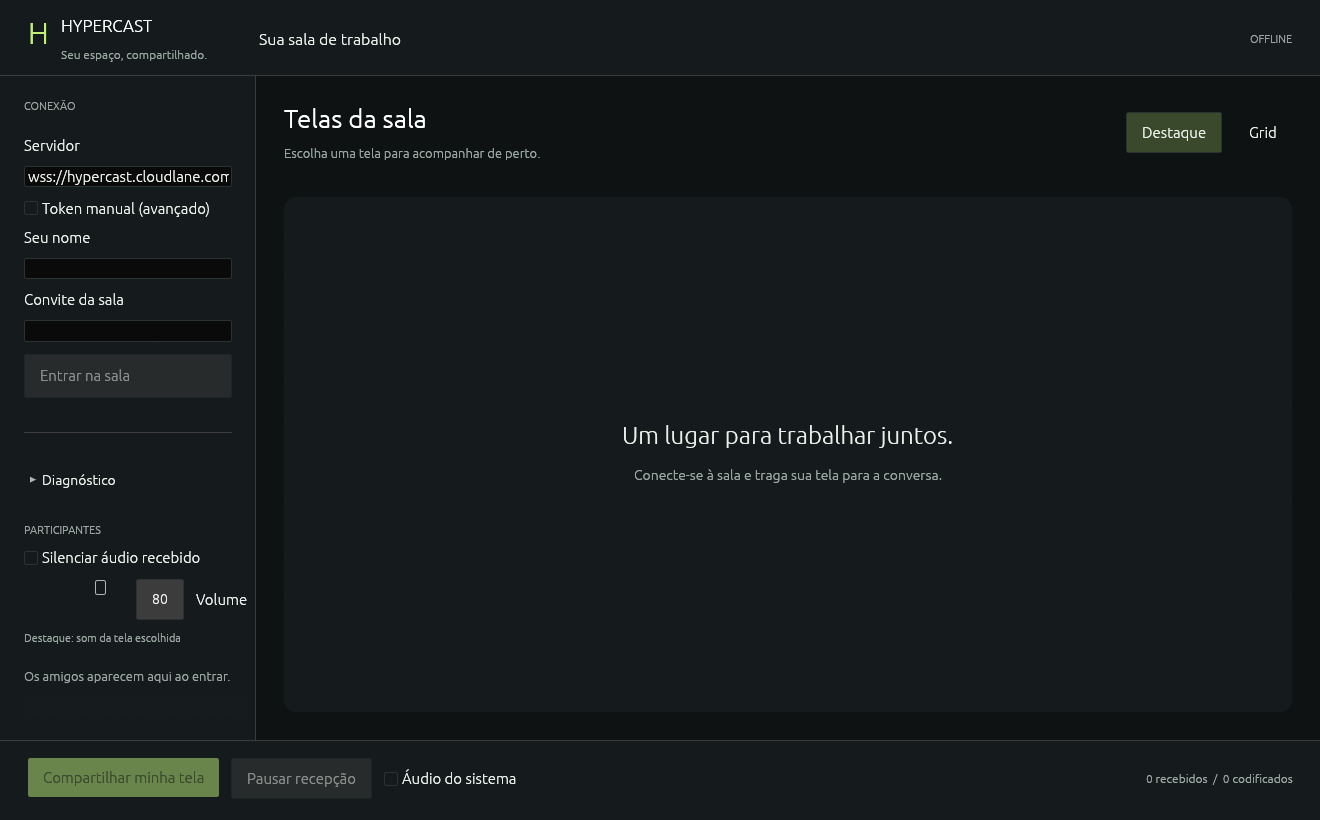
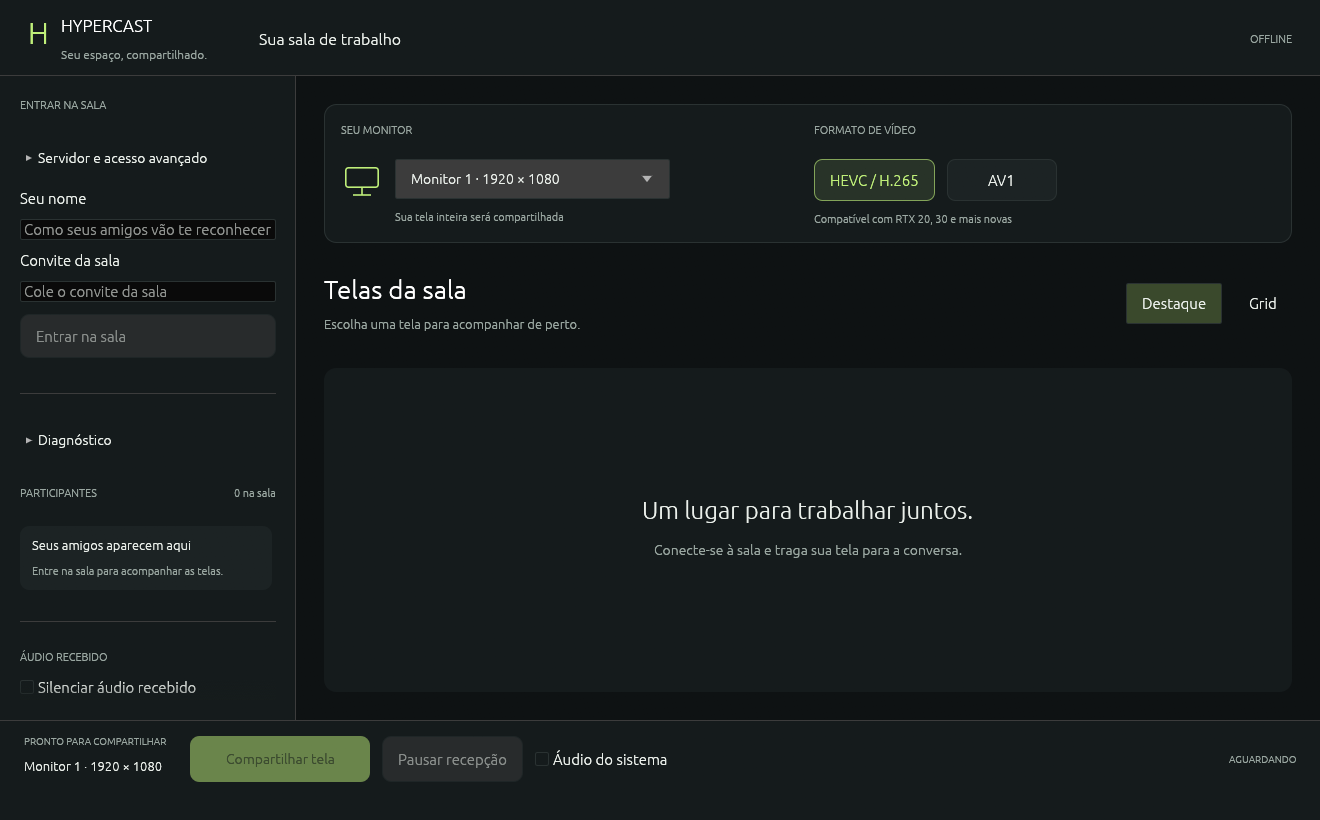
feat: refresh desktop participant cards and sharing controls in 0.3.1

diff --git a/src/desktop.rs b/src/desktop.rs
@@ -17,6 +17,46 @@ const BORDER: Color32 = Color32::from_rgb(42, 50, 50);
 const TEXT: Color32 = Color32::from_rgb(234, 239, 234);
 const MUTED: Color32 = Color32::from_rgb(154, 167, 161);
 const ACCENT: Color32 = Color32::from_rgb(191, 239, 121);
+const SURFACE: Color32 = Color32::from_rgb(28, 35, 36);
+const DANGER: Color32 = Color32::from_rgb(235, 127, 119);
+
+fn monitor_symbol(painter: &egui::Painter, center: egui::Pos2, color: Color32, size: f32) {
+    let stroke = egui::Stroke::new(1.6, color);
+    let screen = egui::Rect::from_center_size(center - Vec2::new(0.0, size * 0.08), Vec2::new(size, size * 0.62));
+    painter.rect_stroke(screen, 3.0, stroke, egui::StrokeKind::Inside);
+    painter.line_segment([center + Vec2::new(0.0, size * 0.24), center + Vec2::new(0.0, size * 0.43)], stroke);
+    painter.line_segment([center + Vec2::new(-size * 0.25, size * 0.43), center + Vec2::new(size * 0.25, size * 0.43)], stroke);
+}
+
+/// Native button keeps keyboard focus/activation and accessibility semantics;
+/// painter supplies the visual hierarchy without image assets or CPU capture.
+fn choice_card(ui: &mut egui::Ui, title: &str, subtitle: &str, selected: bool, enabled: bool, avatar: Option<char>) -> egui::Response {
+    let response = ui.add_enabled(enabled, egui::Button::new("")
+        .min_size(Vec2::new(ui.available_width(), 66.0)).corner_radius(9)
+        .fill(if selected { Color32::from_rgb(40, 51, 40) } else { SURFACE })
+        .stroke(egui::Stroke::new(1.0, if selected { ACCENT.gamma_multiply(0.65) } else { BORDER })));
+    response.widget_info(|| egui::WidgetInfo::labeled(egui::WidgetType::Button, enabled, format!("{title}: {subtitle}")));
+    let center = response.rect.left_center() + Vec2::new(30.0, 0.0);
+    let tint = if selected { ACCENT } else { MUTED };
+    if let Some(initial) = avatar {
+        ui.painter().circle_filled(center, 18.0, tint.gamma_multiply(0.14));
+        ui.painter().text(center, egui::Align2::CENTER_CENTER, initial.to_uppercase().collect::<String>(), egui::FontId::proportional(17.0), tint);
+    } else { monitor_symbol(ui.painter(), center, tint, 27.0); }
+    let painter = ui.painter().with_clip_rect(response.rect.shrink(8.0));
+    painter.text(response.rect.left_top() + Vec2::new(60.0, 15.0), egui::Align2::LEFT_TOP,
+        title, egui::FontId::proportional(14.0), TEXT);
+    painter.text(response.rect.left_top() + Vec2::new(60.0, 37.0), egui::Align2::LEFT_TOP,
+        subtitle, egui::FontId::proportional(11.0), if selected { ACCENT } else { MUTED });
+    if response.has_focus() { painter.rect_stroke(response.rect.shrink(2.0), 8.0, egui::Stroke::new(1.5, ACCENT), egui::StrokeKind::Inside); }
+    response.on_hover_text(format!("{title}\n{subtitle}"))
+}
+
+fn section_title(ui: &mut egui::Ui, label: &str, detail: &str) {
+    ui.horizontal(|ui| {
+        ui.label(RichText::new(label).size(11.0).strong().color(MUTED));
+        ui.with_layout(egui::Layout::right_to_left(egui::Align::Center), |ui| { ui.label(RichText::new(detail).size(11.0).color(MUTED)); });
+    });
+}
 
 struct App {
     engine: Option<Engine>,
@@ -320,39 +360,53 @@ impl eframe::App for App {
                     });
                 });
             });
-        egui::Panel::bottom("controls").exact_size(80.0).frame(egui::Frame::new().fill(PANEL).inner_margin(egui::Margin::symmetric(28,18))).show(ui, |ui| {
+        egui::Panel::bottom("controls").exact_size(100.0).frame(egui::Frame::new().fill(PANEL).inner_margin(egui::Margin::symmetric(24,16))).show(ui, |ui| {
             ui.horizontal(|ui| {
-                if ui.add_enabled(connected && can_publish, egui::Button::new(RichText::new(if publishing { "Parar compartilhamento" } else { "Compartilhar minha tela" }).color(if publishing { TEXT } else { BG })).fill(if publishing { Color32::from_rgb(92,43,42) } else { ACCENT }).stroke(egui::Stroke::NONE)).on_hover_text(if can_publish { "Enviar o monitor escolhido para os amigos" } else { "Seu token permite assistir. Use um acesso de publicador para compartilhar." }).clicked() {
+                ui.vertical(|ui| {
+                    ui.label(RichText::new(if publishing { "SUA TELA ESTÁ AO VIVO" } else { "PRONTO PARA COMPARTILHAR" }).size(10.0).strong().color(if publishing { ACCENT } else { MUTED }));
+                    let monitor = self.displays.get(self.selected_display);
+                    ui.label(RichText::new(monitor.map_or("Nenhum monitor".into(), |d| format!("Monitor {} · {} × {}", self.selected_display + 1, d.width, d.height))).size(13.0).color(TEXT));
+                });
+                ui.add_space(12.0);
+                if ui.add_enabled(connected && can_publish && !self.displays.is_empty(), egui::Button::new(RichText::new(if publishing { "Parar de compartilhar" } else { "Compartilhar tela" }).size(14.0).strong().color(if publishing { DANGER } else { BG })).min_size(Vec2::new(180.0, 46.0)).corner_radius(9).fill(if publishing { Color32::from_rgb(59,34,34) } else { ACCENT }).stroke(egui::Stroke::new(1.0, if publishing { DANGER.gamma_multiply(0.4) } else { ACCENT }))).on_hover_text(if can_publish { "Enviar o monitor escolhido para os amigos" } else { "Seu acesso permite assistir. Um convite de publicador permite compartilhar." }).clicked() {
                     if let Some(engine) = &self.engine {
                         if publishing { let _ = engine.commands.send(Command::StopShare); }
                         else if let Some(display) = self.displays.get(self.selected_display) { let _ = engine.commands.send(Command::Share { adapter: display.adapter_index, output: display.output_index, codec: self.codec }); }
                     }
                 }
-                if ui.add_enabled(connected, egui::Button::new(if self.paused { "Retomar telas" } else { "Pausar recepção" })).clicked() { self.paused = !self.paused; self.send_layout(); }
+                if ui.add_enabled(connected, egui::Button::new(if self.paused { "Retomar recepção" } else { "Pausar recepção" }).min_size(Vec2::new(140.0,46.0)).corner_radius(9)).clicked() { self.paused = !self.paused; self.send_layout(); }
                 if ui.add_enabled(!connected || can_publish, egui::Checkbox::new(&mut self.system_audio, "Áudio do sistema"))
                     .on_hover_text("Enviar som dos programas junto com sua tela. Não captura microfone.").changed() {
                     if let Some(engine) = &self.engine { let _ = engine.commands.send(Command::SystemAudio(self.system_audio)); }
                 }
-                if self.engine.is_some() && ui.button("Sair da sala").clicked() { self.engine = None; self.presenters.clear(); self.last_presented.clear(); }
+                if self.engine.is_some() && ui.add(egui::Button::new(RichText::new("Sair").color(DANGER)).min_size(Vec2::new(64.0,46.0)).corner_radius(9)).on_hover_text("Sair da sala e interromper compartilhamento e recepção").clicked() { self.engine = None; self.presenters.clear(); self.last_presented.clear(); }
                 ui.with_layout(egui::Layout::right_to_left(egui::Align::Center), |ui| {
-                    ui.label(RichText::new(format!("{received} recebidos  /  {sent} codificados")).size(12.0).color(MUTED));
+                    ui.label(RichText::new(if publishing { "ENVIANDO" } else if connected { "NA SALA" } else { "AGUARDANDO" }).size(10.0).color(if publishing { ACCENT } else { MUTED })).on_hover_text(format!("{received} quadros recebidos / {sent} codificados"));
                 });
             });
         });
         egui::Panel::left("room_sidebar")
-            .exact_size(256.0)
+            .exact_size(296.0)
             .resizable(false)
             .frame(
                 egui::Frame::new()
                     .fill(PANEL)
-                    .inner_margin(egui::Margin::same(24)),
+                    .inner_margin(egui::Margin::same(20)),
             )
             .show(ui, |ui| {
                 egui::ScrollArea::vertical()
                     .auto_shrink([false, false])
                     .show(ui, |ui| {
-                        ui.label(RichText::new("CONEXÃO").size(11.0).color(MUTED));
+                        section_title(ui, if connected { "SALA" } else { "ENTRAR NA SALA" }, if connected { "Conectado" } else { "" });
                         ui.add_space(12.0);
+                        if connected {
+                            egui::Frame::new().fill(SURFACE).corner_radius(9).inner_margin(12).show(ui, |ui| {
+                                ui.set_min_width(228.0);
+                                ui.label(RichText::new(&room).size(18.0).strong().color(TEXT));
+                                ui.label(RichText::new(if can_publish { "Você pode assistir e compartilhar" } else { "Você está assistindo à sala" }).size(12.0).color(MUTED));
+                            });
+                        } else {
+                        egui::CollapsingHeader::new("Servidor e acesso avançado").default_open(self.token_mode).show(ui, |ui| {
                         ui.label("Servidor");
                             ui.add_enabled(self.engine.is_none(),
                             egui::TextEdit::singleline(&mut self.address)
@@ -361,11 +415,12 @@ impl eframe::App for App {
                                 .hint_text("wss://seu-servidor"),
                         );
                         ui.add_enabled(self.engine.is_none(), egui::Checkbox::new(&mut self.token_mode, "Token manual (avançado)"));
+                        });
                         if !self.token_mode {
                             ui.label("Seu nome");
-                            ui.add_enabled(self.engine.is_none(), egui::TextEdit::singleline(&mut self.name).char_limit(64).desired_width(208.0));
+                            ui.add_enabled(self.engine.is_none(), egui::TextEdit::singleline(&mut self.name).char_limit(64).desired_width(256.0).hint_text("Como seus amigos vão te reconhecer"));
                             ui.label("Convite da sala");
-                            ui.add_enabled(self.engine.is_none(), egui::TextEdit::singleline(&mut self.invite).password(true).char_limit(64).desired_width(208.0));
+                            ui.add_enabled(self.engine.is_none(), egui::TextEdit::singleline(&mut self.invite).password(true).char_limit(64).desired_width(256.0).hint_text("Cole o convite da sala"));
                         } else {
                         ui.label("Token da sala");
                             ui.add_enabled(self.engine.is_none(),
@@ -381,12 +436,13 @@ impl eframe::App for App {
                                 .add_enabled(
                                     if self.token_mode { !self.token.trim().is_empty() } else { !self.invite.trim().is_empty() && !self.name.trim().is_empty() },
                                     egui::Button::new("Entrar na sala")
-                                        .min_size(Vec2::new(208.0, 44.0)),
+                                        .min_size(Vec2::new(256.0, 44.0)).corner_radius(9),
                                 )
                                 .clicked()
                         {
                             self.error.clear();
                             self.engine = Some(self.join_room(ctx.clone()));
+                        }
                         }
                         ui.add_space(20.0);
                         ui.separator();
@@ -406,71 +462,39 @@ impl eframe::App for App {
                         }
                         });
                         ui.add_space(12.0);
-                        ui.label(RichText::new("PARTICIPANTES").size(11.0).color(MUTED));
-                        if ui.checkbox(&mut self.sound_muted, "Silenciar áudio recebido").changed() { self.send_layout(); }
-                        if ui.add(egui::Slider::new(&mut self.volume, 0..=100).text("Volume")).changed() { self.send_layout(); }
-                        ui.label(RichText::new(if self.mode == ViewMode::Grid { "Grid: som das telas visíveis" } else { "Destaque: som da tela escolhida" }).size(11.0).color(MUTED));
+                        section_title(ui, "PARTICIPANTES", &format!("{} na sala", people.len() + usize::from(connected)));
                         ui.add_space(12.0);
-                        if people.is_empty() {
-                            ui.label(
-                                RichText::new("Os amigos aparecem aqui ao entrar.")
-                                    .size(13.0)
-                                    .color(MUTED),
-                            );
+                        if connected {
+                            let label = if self.name.is_empty() { "Você".to_owned() } else { format!("{} (você)", self.name) };
+                            if choice_card(ui, &label, if publishing { "Compartilhando tela" } else { "Assistindo à sala" }, self.focus.as_ref() == Some(&identity), publishing, Some(self.name.chars().next().unwrap_or('V'))).clicked() {
+                                self.focus = Some(identity.clone()); self.mode = ViewMode::Spotlight; self.send_layout();
+                            }
                         }
+                        people.sort_by(|a,b| screens.contains(&b.0).cmp(&screens.contains(&a.0)).then_with(|| a.1.cmp(&b.1)).then_with(|| a.0.cmp(&b.0)));
                         for (identity, name) in &people {
-                            if ui.add_enabled_ui(screens.contains(identity), |ui| ui
-                                .selectable_label(
-                                    self.focus.as_ref() == Some(identity),
-                                    if name.is_empty() { identity } else { name },
-                                )).inner.clicked()
+                            let live = screens.contains(identity);
+                            let focused = self.focus.as_ref() == Some(identity) || (self.focus.is_none() && screens.first() == Some(identity));
+                            if choice_card(ui, if name.is_empty() { "Participante" } else { name }, if live { if focused && self.mode == ViewMode::Spotlight { "Em destaque · compartilhando" } else { "Compartilhando tela" } } else { "Assistindo à sala" }, focused && live, live, Some(name.chars().next().unwrap_or('P'))).clicked()
                             {
                                 self.focus = Some(identity.clone());
                                 self.mode = ViewMode::Spotlight;
                                 self.send_layout();
                             }
                         }
-                        if publishing
-                            && ui
-                                .selectable_label(
-                                    self.focus.as_ref() == Some(&identity),
-                                    "Minha tela",
-                                )
-                                .clicked()
-                        {
-                            self.focus = Some(identity.clone());
-                            self.mode = ViewMode::Spotlight;
-                            self.send_layout();
+                        if people.is_empty() {
+                            egui::Frame::new().fill(SURFACE).corner_radius(9).inner_margin(12).show(ui, |ui| {
+                                ui.set_min_width(228.0);
+                                ui.label(RichText::new(if connected { "Aguardando seus amigos" } else { "Seus amigos aparecem aqui" }).size(13.0).color(TEXT));
+                                ui.label(RichText::new(if connected { "Compartilhe o convite da sala com eles." } else { "Entre na sala para acompanhar as telas." }).size(11.0).color(MUTED));
+                            });
                         }
-                        ui.add_space(24.0);
+                        ui.add_space(16.0);
                         ui.separator();
                         ui.add_space(12.0);
-                        ui.label(RichText::new("SEU MONITOR").size(11.0).color(MUTED));
-                        egui::ComboBox::from_id_salt("display_picker")
-                            .width(200.0)
-                            .selected_text(format!("Monitor {}", self.selected_display + 1))
-                            .show_ui(ui, |ui| {
-                                for (index, display) in self.displays.iter().enumerate() {
-                                    ui.selectable_value(
-                                        &mut self.selected_display,
-                                        index,
-                                        format!(
-                                            "{} • {} × {}",
-                                            display.display_name, display.width, display.height
-                                        ),
-                                    );
-                                }
-                            });
-                        ui.add_space(12.0);
-                        ui.label(RichText::new("FORMATO DE VÍDEO").size(11.0).color(MUTED));
-                        ui.add_enabled_ui(!publishing, |ui| {
-                            egui::ComboBox::from_id_salt("codec_picker").width(200.0)
-                                .selected_text(if self.codec == crate::encoder::Codec::Av1 { "AV1" } else { "HEVC / H.265" })
-                                .show_ui(ui, |ui| {
-                                    ui.selectable_value(&mut self.codec,crate::encoder::Codec::Av1,"AV1");
-                                    ui.selectable_value(&mut self.codec,crate::encoder::Codec::H265,"HEVC / H.265");
-                                });
-                        }).response.on_hover_text("Escolha um formato compatível com as GPUs da sala. Pare o compartilhamento antes de mudar.");
+                        section_title(ui, "ÁUDIO RECEBIDO", "");
+                        if ui.checkbox(&mut self.sound_muted, "Silenciar áudio recebido").changed() { self.send_layout(); }
+                        if ui.add(egui::Slider::new(&mut self.volume, 0..=100).text("Volume")).changed() { self.send_layout(); }
+                        ui.label(RichText::new(if self.mode == ViewMode::Grid { "Som das telas visíveis" } else { "Som da tela em destaque" }).size(11.0).color(MUTED));
                         ui.add_space(16.0);
                         ui.label(RichText::new(&status).size(12.0).color(MUTED));
                         if !audio_status.is_empty() { ui.label(RichText::new(&audio_status).size(11.0).color(MUTED)); }
@@ -486,6 +510,40 @@ impl eframe::App for App {
                     .inner_margin(egui::Margin::same(28)),
             )
             .show(ui, |ui| {
+                egui::Frame::new().fill(PANEL).stroke(egui::Stroke::new(1.0,BORDER)).corner_radius(12).inner_margin(16).show(ui, |ui| {
+                    ui.set_width(ui.available_width());
+                    ui.columns(2, |columns| {
+                        let ui = &mut columns[0];
+                        section_title(ui, "SEU MONITOR", if publishing { "AO VIVO" } else { "" });
+                        ui.add_space(8.0);
+                        ui.horizontal(|ui| {
+                            let (symbol,_) = ui.allocate_exact_size(Vec2::new(42.0,42.0),egui::Sense::hover());
+                            monitor_symbol(ui.painter(),symbol.center(),ACCENT,34.0);
+                            ui.vertical(|ui| {
+                                ui.add_enabled_ui(!publishing, |ui| {
+                                    let text = self.displays.get(self.selected_display).map_or("Nenhum monitor".into(), |d| format!("Monitor {} · {} × {}", self.selected_display+1,d.width,d.height));
+                                    egui::ComboBox::from_id_salt("display_picker").width(ui.available_width().min(275.0)).selected_text(text).show_ui(ui, |ui| {
+                                        for (index,display) in self.displays.iter().enumerate() {
+                                            if choice_card(ui, &format!("Monitor {}",index+1),&format!("{} × {}",display.width,display.height),index==self.selected_display,true,None).on_hover_text(format!("{}\n{}",display.display_name,display.gpu_name)).clicked() { self.selected_display=index; }
+                                        }
+                                    });
+                                });
+                                ui.label(RichText::new(if publishing { "Pare para trocar de tela" } else { "Sua tela inteira será compartilhada" }).size(11.0).color(MUTED));
+                            });
+                        });
+                        let ui = &mut columns[1];
+                        section_title(ui,"FORMATO DE VÍDEO", "");
+                        ui.add_space(8.0);
+                        ui.horizontal(|ui| {
+                            for (codec,title) in [(crate::encoder::Codec::H265,"HEVC / H.265"),(crate::encoder::Codec::Av1,"AV1")] {
+                                let selected=self.codec==codec;
+                                if ui.add_enabled(!publishing,egui::Button::new(RichText::new(title).strong().color(if selected { ACCENT } else { TEXT })).min_size(Vec2::new(110.0,42.0)).corner_radius(8).fill(if selected { Color32::from_rgb(40,51,40) } else { SURFACE }).stroke(egui::Stroke::new(1.0,if selected { ACCENT.gamma_multiply(0.65) } else { BORDER })).selected(selected)).clicked() { self.codec=codec; }
+                            }
+                        });
+                        ui.label(RichText::new(if self.codec==crate::encoder::Codec::H265 { "Compatível com RTX 20, 30 e mais novas" } else { "Requer GPU com codificação AV1" }).size(11.0).color(MUTED));
+                    });
+                });
+                ui.add_space(20.0);
                 ui.horizontal(|ui| {
                     ui.vertical(|ui| {
                         ui.label(RichText::new("Telas da sala").size(26.0).strong());

diff --git a/tests/integration_system_audio.py b/tests/integration_system_audio.py
@@ -23,7 +23,8 @@ def main():
         if publisher: grants['canPublishSources'] = ['screen_share','screen_share_audio']
         return rt.sign({'iss':key,'sub':'hc-member-'+uuid.uuid4().hex,'nbf':now-5,'exp':now+300,'video':grants},secret)
     base = {k:v for k,v in os.environ.items() if k not in {'LIVEKIT_API_KEY','LIVEKIT_API_SECRET','LIVEKIT_KEYS'}}
-    base.update(HYPERCAST_URL='wss://hypercast.cloudlane.com.br',HYPERCAST_AUTO_CONNECT='1',HYPERCAST_RELAY_ONLY='1')
+    relay_only = os.environ.get('HYPERCAST_AUDIO_TEST_RELAY_ONLY','1') == '1'
+    base.update(HYPERCAST_URL='wss://hypercast.cloudlane.com.br',HYPERCAST_AUTO_CONNECT='1',HYPERCAST_RELAY_ONLY='1' if relay_only else '0')
     executable = os.environ.get('HYPERCAST_TEST_EXE',str(ROOT/'target/x86_64-pc-windows-msvc/debug/hypercast.exe'))
     children=[]; outputs=[]
     diagnostics = Path(os.environ['LOCALAPPDATA'])/'HyperCast/diagnostics'
@@ -43,8 +44,11 @@ def main():
             time.sleep(1)
         for child in children[1:]: assert child.wait(timeout=40)==0,'GUI failed'
         for output in outputs: output.close()
-        logs=[path.read_text(errors='replace') for path in set(diagnostics.glob('gui-*.log'))-before]
+        target_pids={child.pid for child in children[1:]}
+        logs=[path.read_text(errors='replace') for path in set(diagnostics.glob('gui-*.log'))-before
+            if any(path.name.endswith(f'-{pid}.log') for pid in target_pids)]
         assert len(logs)==2,'Missing session diagnostics'
+        assert any('System audio published:' in log for log in logs),'No audio publication; inspect the child/session diagnostics'
         publisher=next(log for log in logs if 'System audio published:' in log)
         viewer=next(log for log in logs if 'Subscribed to system audio' in log)
         assert publisher.count('System audio published:')==2,'Stop/republication failed'
@@ -62,8 +66,8 @@ def main():
         assert max(map(int,re.findall(r'audio_stats: sent=\d+ received=(\d+)',viewer)),default=0)>200,'Insufficient decoded audio'
         for log in logs:
             assert not re.search(r'audio_error:|audio_playback_error:|audio_unpublish_error:|publication_error:|capture_error:',log),'Audio/video pipeline error'
-            assert 'relay transport=Some(Tls)' in log,'TURN TLS was not selected'
-        print('PASS: system PCM capture, Opus, TURN TLS, decoded non-silent stereo, WASAPI output, stop and republish')
+            if relay_only: assert 'relay transport=Some(Tls)' in log,'TURN TLS was not selected'
+        print('PASS: system PCM capture, Opus, '+('TURN TLS' if relay_only else 'WebRTC')+', decoded non-silent stereo, WASAPI output, stop and republish')
     finally:
         for child in children:
             if child.poll() is None: child.terminate(); child.wait(timeout=10)

diff --git a/tests/integration_diagnostic_script.py b/tests/integration_diagnostic_script.py
@@ -32,7 +32,7 @@ def main():
     shutil.copyfile(ROOT / "tools/Test-Streaming.ps1", missing / "Test-Streaming.ps1")
     logs = run(missing / "Test-Streaming.ps1", fixture / "missing-data")
     assert "Extraia TODO" in (logs / "error.log").read_text(encoding="utf-8-sig")
-    stage = ROOT / "dist/HyperCast-0.3.0-windows-x64"
+    stage = ROOT / "dist/HyperCast-0.3.1-windows-x64"
     logs = run(stage / "Test-Streaming.ps1", fixture / "native-error-data")
     stream = (logs / "stream.log").read_text(encoding="utf-8-sig")
     assert stream.strip(), "Native stderr must be drained and saved under PowerShell 5.1"

diff --git a/tools/collect_licenses.py b/tools/collect_licenses.py
@@ -6,7 +6,7 @@ ROOT = Path(__file__).resolve().parent.parent
 
 def main():
     metadata=json.loads((ROOT/".tools/package-metadata.json").read_text(encoding="utf-8-sig"))
-    destination=ROOT/"dist/HyperCast-0.3.0-windows-x64/licenses/Rust-dependencies.txt"
+    destination=ROOT/"dist/HyperCast-0.3.1-windows-x64/licenses/Rust-dependencies.txt"
     destination.parent.mkdir(parents=True,exist_ok=True)
     with destination.open("w",encoding="utf-8") as output:
         for package in sorted(metadata["packages"],key=lambda p:(p["name"],p["version"])):

diff --git a/docs/validation.md b/docs/validation.md
@@ -1,5 +1,29 @@
 # Validação — 12 e 13/10/2026
 
+## Layout desktop — 0.3.1, 13/10/2026
+
+UI/UX Pro Max aplicada ao cliente egui; padrões de seleção de tela e controles
+de sessão de Discord/Zoom consultados. Não foram adicionados frameworks web,
+gravação/miniaturas da área de trabalho ou animações contínuas.
+
+Seleção de monitor/resolução e HEVC/AV1 agora fica acima do canvas; controles
+de publicação, parada, pausa, áudio e saída ficam na barra inferior. A lateral
+usa cartões de participantes com iniciais, nome, estado e seleção de foco.
+Formulário desaparece após conectar; servidor/token ficam em acesso avançado.
+Monitor/formato ficam bloqueados durante publicação para preservar o pipeline.
+
+Janela real inspecionada em 1320×820 e 960×620; sessão real isolada com três
+nomes sintéticos e publicações sem pixels confirmou os cartões. Screenshot
+versionado mostra somente a janela inicial, sem convite/token/mídia.
+
+ZIP final passou na integração de áudio/vídeo via TURN TLS: 1212 frames enviados
+no último ciclo, 1485 recebidos e 1451 apresentações GPU; stop/republication e
+silenciamento/retomada de áudio passaram. Uma tentativa inicial teve timeout
+de ICE; a repetição conectou. Outro resultado de teste confundiu logs de duas
+GUIs de revisão com os do teste de mídia; o teste passou a selecionar por PID.
+Não é evidência de latência <100 ms ou estabilidade QHD120 sob movimento.
+Instalador gerado; instalação/desinstalação 0.3.1 não repetida.
+
 ## Áudio do sistema — 0.3.0, 13/10/2026
 
 Servidor SFU e API implantados no k3s após o proprietário sair da sala e

diff --git a/docs/portable.md b/docs/portable.md
@@ -1,5 +1,16 @@
 # HyperCast para Windows
 
+Na versão 0.3.1, monitor e formato ficam na faixa acima das telas. Abra a seleção
+de monitor para ver as opções com resolução; escolha HEVC/H.265 ou AV1 nos
+botões ao lado. Essas opções ficam bloqueadas durante a transmissão: pare para
+trocar. A barra inferior mostra o monitor selecionado e distingue compartilhar,
+parar, pausar recepção, áudio do sistema e sair.
+
+Participantes aparecem em cartões com inicial, nome e estado. Clique em quem
+está compartilhando para destacar a tela. Após entrar, o formulário de acesso
+é substituído por um resumo da sala. Servidor/token manual ficam em
+**Servidor e acesso avançado** na entrada.
+
 Versão 0.3.0: marque **Áudio do sistema** antes ou durante o
 compartilhamento para enviar som de jogos, vídeos e programas. A opção começa
 desativada; não captura microfone. Parar a tela também para o áudio.
